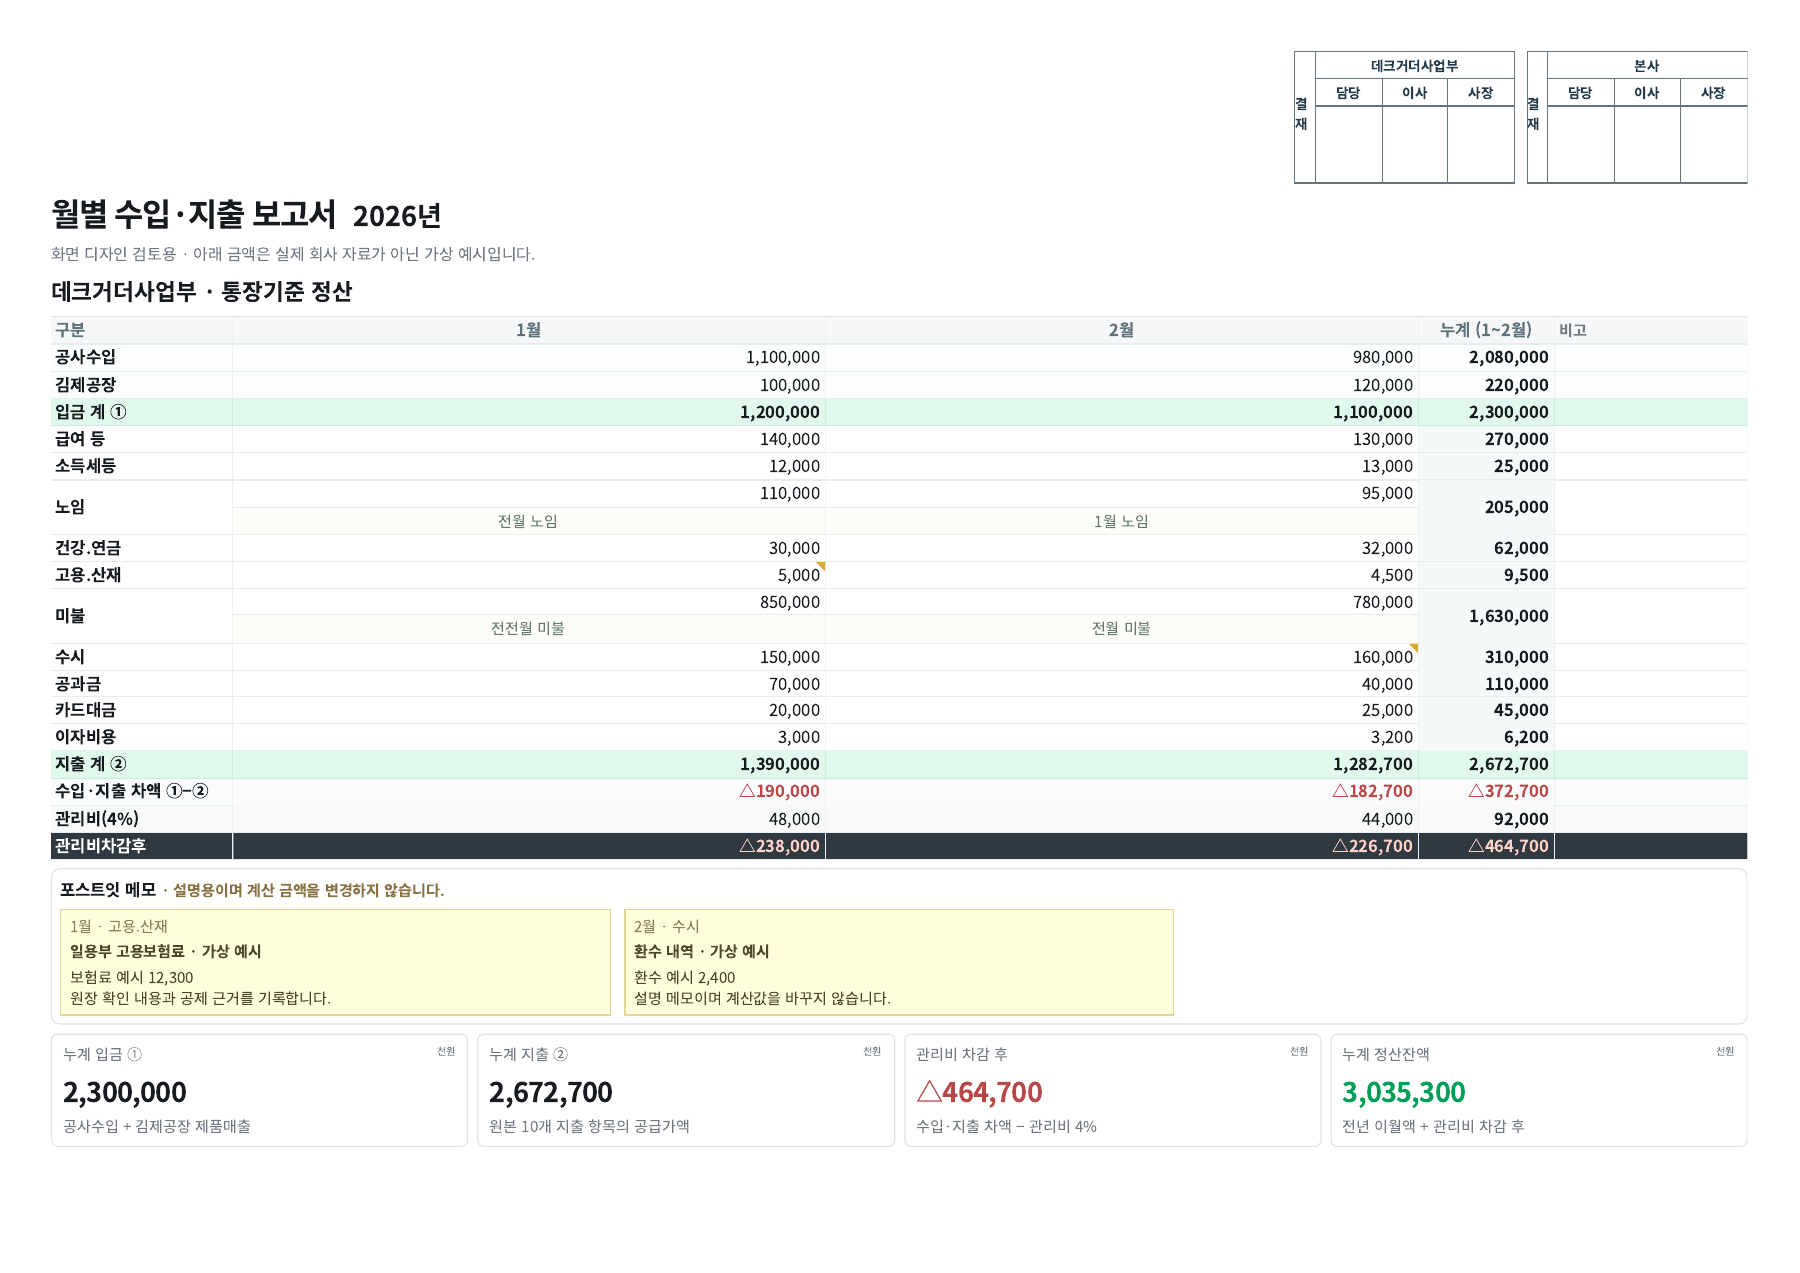
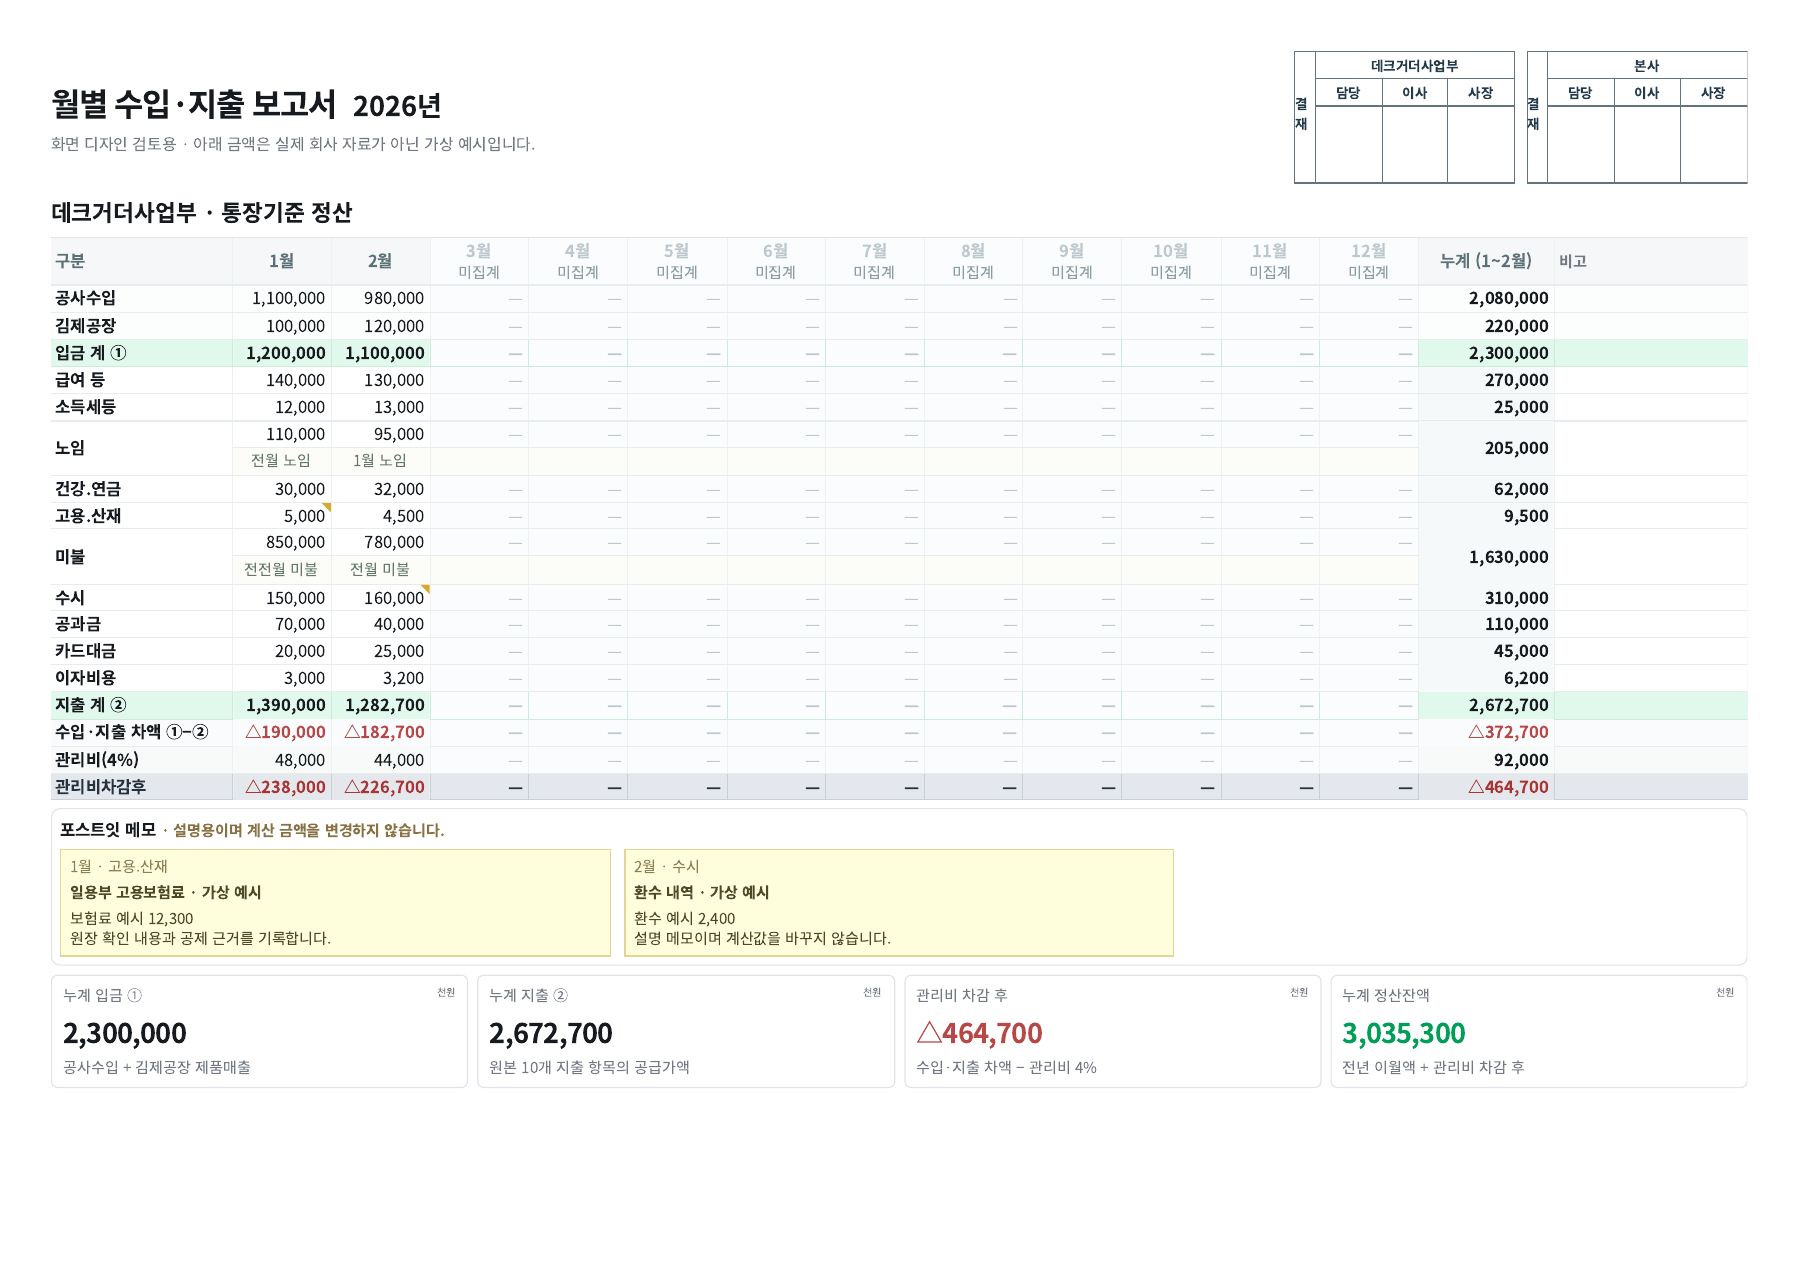
Align report title with approvals and show twelve months with gray final row

diff --git a/monthly_preview_template.html b/monthly_preview_template.html
@@ -41,18 +41,24 @@ h1{font-size:32px;letter-spacing:-1px;margin:0 0 10px}h1 small{font-size:26px;ma
 .settlement{display:none!important}
 @media print{.report-approvals{margin:0 0 10px;justify-content:flex-end}.report-totals{display:block;margin:12px 0 0;overflow:visible;break-inside:avoid}.report-totals .cards{grid-template-columns:repeat(4,minmax(0,1fr));min-width:0;gap:8px;margin:0}.report-totals .card{padding:10px}.report-totals .value{font-size:18pt}}
 @media print{.report-approvals{margin-bottom:6px}.pagehead{margin:0 0 8px}h1{margin-bottom:6px}.panelhead{padding:0 0 8px}.panelhead small,.legend{display:none!important}#reporttable td,#reporttable th{padding:3px 4px;line-height:1.15}.report-totals{margin-top:8px}.report-totals .card{padding:8px 10px}.report-totals .card .klabel{margin-bottom:5px}.report-totals .card .kfoot{margin-top:4px}}
+
+/* Title/year and approvals share one header row; all twelve months are default. */
+.pagehead{display:block;overflow-x:auto}.title-and-approvals{display:flex;flex-wrap:nowrap;align-items:center;justify-content:space-between;gap:24px;min-width:760px}.title-and-approvals>div:first-child{flex:1;min-width:360px}h1{white-space:nowrap}.report-approvals{flex:0 0 auto;flex-wrap:nowrap;margin:0}.pagehead>.actions{justify-content:flex-end;margin-top:12px}
+#reporttable .final td{background:#e4e7eb!important;color:#26313b!important;border-color:#c9cfd6!important}
+#reporttable .final td.negative{color:#a93434!important}
+@media print{.pagehead{overflow:visible;display:block;margin-bottom:10px}.title-and-approvals{display:flex;flex-wrap:nowrap;min-width:0;gap:18px}.title-and-approvals>div:first-child{min-width:0}.report-approvals{margin:0;flex-wrap:nowrap}.pagehead>.actions{display:none!important}#reporttable .final td{background:#e4e7eb!important;color:#26313b!important}#reporttable .final td.negative{color:#a93434!important}}
+@media screen and (max-width:1150px){.title-and-approvals{gap:16px}.title-and-approvals h1{font-size:26px}.title-and-approvals h1 small{font-size:23px}.report-approvals .approval-table{width:170px}}
 </style></head><body>
 <aside><div class="brand">LB DECK<small>데크·거더사업부 수지관리</small></div><div class="nav-head">MONTHLY REPORT</div><button class="nav-item active" id="nav-report" onclick="tab('report')"><span>▦</span>수입·지출 보고서</button><button class="nav-item" id="nav-analysis" onclick="tab('analysis')"><span>≡</span>자료 분석·검증</button><div class="side-note"><strong>보고서 화면 시안 · v1</strong><br>원본 엑셀 기준 / 읽기 전용<br>숫자를 누르면 집계 근거를 확인합니다.<br>회사 원본은 외부로 전송하지 않습니다.</div></aside>
 <main><div class="embedded-switch"><button class="control" onclick="tab('report')">보고서</button><button class="control" onclick="tab('analysis')">분석·검증</button></div><div class="topbar"><span>엘비데크 월별보고 &nbsp; / &nbsp; 통장 입출금 기준</span><span class="pill">공급가액 기준 · 부가세 제외</span></div>
-<div class="approval-area report-approvals" id="approvals"></div>
-<div class="pagehead"><div class="title-and-approvals"><div><h1>월별 수입·지출 보고서 <small id="yearlabel"></small></h1><div class="subtitle" id="subtitle"></div></div></div><div class="actions"><button class="control" onclick="downloadCSV()">표 CSV 내려받기</button><button class="control primary" onclick="tab('report');window.print()">인쇄 / PDF 저장</button></div></div>
+<div class="pagehead"><div class="title-and-approvals"><div><h1>월별 수입·지출 보고서 <small id="yearlabel"></small></h1><div class="subtitle" id="subtitle"></div></div><div class="approval-area report-approvals" id="approvals"></div></div><div class="actions"><button class="control" onclick="downloadCSV()">표 CSV 내려받기</button><button class="control primary" onclick="tab('report');window.print()">인쇄 / PDF 저장</button></div></div>
 <div class="filterbar"><label for="endMonth">집계 마감월</label><select id="endMonth" onchange="render()"></select><label for="unit">표시 단위</label><select id="unit" onchange="render()"><option value="1000">천원</option><option value="1">원</option><option value="1000000">백만원</option></select><span class="source" id="source"></span></div>
 <section id="report"><div class="notice" id="notice"></div><div class="panel"><div class="panelhead"><div class="paneltitle">데크거더사업부 · 통장기준 정산<small>엑셀 원본의 항목 순서 및 수식을 유지한 월별 집계표</small></div><div class="paneltools"><span id="unitlabel"></span><button id="viewbtn" onclick="annual=!annual;render()">집계월만 보기</button></div></div><div class="print-screen-hint">글씨 크기를 유지하기 위해 표가 넓으면 가로로 스크롤합니다. ‘집계월만 보기’로 등록된 월만 볼 수도 있습니다.</div><div class="scroll"><table id="reporttable"></table></div><div class="legend">● 조정 포함: 원본 수식에 직접 입력한 금액이 있습니다. &nbsp; | &nbsp; — 미집계 월 &nbsp; | &nbsp; △ 음수 &nbsp; | &nbsp; 금액 클릭: 원장·부가세·조정 내역</div><div class="settlement" id="settlement"></div></div><div class="sticky-register" id="sticky-register"></div><div class="footnotes"><div><h3>작성 기준</h3><p>통장에서 실제 입금·지출된 자료를 기초로 부가세와 원본 조정을 반영했습니다. 발생주의 손익계산서와는 구분합니다.</p><p>법인세 중간예납 및 사무실 보증금 제외는 원본의 작성 지침입니다. 제외 적용 여부의 개별 거래 검토는 별도입니다.</p><p>‘미불’은 이 보고서의 지출 분류명입니다. 미지급금 잔액을 뜻하지 않으며 전년 발생분 지급도 포함됩니다.</p><p id="pastclaims"></p></div><div><h3>이번 파일에서 확인할 항목</h3><p id="reviewnotes"></p><p>하도급지킴이 지급 건은 원본 지침에 따라 수시→미불로 재분류할 수 있습니다.</p><p>아래 정산잔액은 이월액과 공급가액 정산의 합계이며 실제 통장 잔액과 같다고 볼 수 없습니다.</p></div></div><div class="summary-strip report-totals"><div class="cards" id="cards"></div></div></section>
 <section id="analysis" class="analysis"></section><div class="footer"><span id="footer-source"></span><span>LB DECK · MONTHLY SETTLEMENT / DESIGN PREVIEW</span></div></main>
 <div class="sticky-pop" id="sticky-pop" role="tooltip"></div><div class="drawer-backdrop" id="backdrop" onclick="if(event.target===this)closeDrawer()"><div class="drawer"><button class="close" onclick="closeDrawer()">×</button><div id="drawercontent"></div></div></div>
 <script>
 const D=__REPORT_DATA__;
-const R=Object.fromEntries(D.rows.map(r=>[r.row,r]));let annual=false;
+const R=Object.fromEntries(D.rows.map(r=>[r.row,r]));let annual=true;
 const esc=s=>String(s??'').replace(/[&<>"']/g,c=>({'&':'&amp;','<':'&lt;','>':'&gt;','"':'&quot;',"'":'&#39;'}[c]));
 const cutoff=()=>Number(document.getElementById('endMonth').value);const scale=()=>Number(document.getElementById('unit').value);const unitName=()=>document.getElementById('unit').selectedOptions[0].textContent;
 const feeRate=()=>D.management_rate??4;const closingValue=()=>D.opening_confirmed===false?null:D.opening+total(26);const validMonth=m=>D.months.includes(m)&&m<=cutoff();

diff --git a/monthly_app.py b/monthly_app.py
@@ -39,7 +39,7 @@ def report_view(report,embedded=True):
 
 def upload_page(c,year,user):
     st.subheader(f'{year}년 월별 원장 업로드')
-    st.caption('원장 읽기·화면 버전: 2026.10.30.3')
+    st.caption('원장 읽기·화면 버전: 2026.10.30.4')
     existing=store.imports(c)
     counts=c.execute("SELECT COUNT(*),COALESCE(SUM(CASE WHEN department='데크거더' THEN 1 ELSE 0 END),0) FROM monthly_ledger").fetchone()
     cards=st.columns(4)
@@ -221,7 +221,7 @@ def render(user):
         with st.expander('보고서 파일 저장 · 사용 안내'):
             st.download_button('보고서 HTML 다운로드',render_html(data).encode('utf-8'),
                                file_name=f'엘비데크_월별보고_{year}.html',mime='text/html')
-            st.caption('결재란·노임·미불 메모와 포스트잇은 보고서 메모·결재 메뉴에서 입력합니다. 화면 버전: 2026.10.30.3')
+            st.caption('결재란·노임·미불 메모와 포스트잇은 보고서 메모·결재 메뉴에서 입력합니다. 화면 버전: 2026.10.30.4')
     elif page=='원장 조회':
         frame=store.ledger(c)
         only_deck=st.checkbox('데크거더 집계 대상만 보기',value=True)

diff --git a/README.md b/README.md
@@ -205,3 +205,7 @@ python -m unittest discover -s tests -v
 ### 2026.10.30.3 보고서 순서
 
 월별보고를 결재란 → 데크거더사업부·통장기준 정산표 → 하단 누계입금·누계지출·관리비 차감 후·누계정산잔액 한 줄 순서로 변경했습니다. 화면과 인쇄/PDF에 동일하게 적용합니다. 작은 화면에서는 네 요약 항목을 가로 스크롤하며 볼 수 있습니다.
+
+### 2026.10.30.4 제목·결재란과 연간 표시
+
+제목·연도와 결재란을 같은 줄에 배치했습니다. 미집계 월을 포함해 1~12월을 기본 표시하며, 관리비 차감 후 행은 밝은 회색 배경과 진한 글씨로 표시합니다. 음수는 붉은색으로 구분하고 하단 네 누계 항목은 한 줄을 유지합니다. 화면과 인쇄/PDF에 동일 적용합니다.
